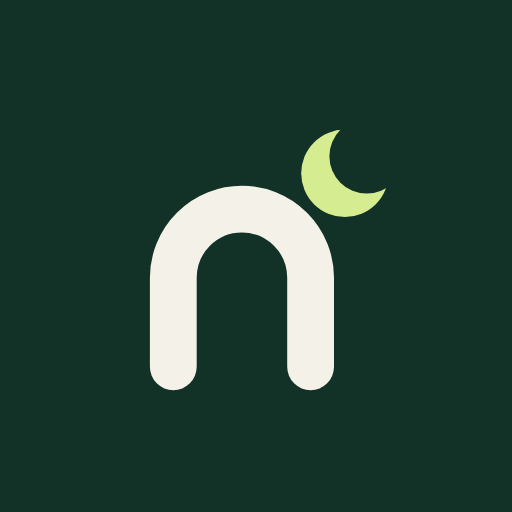
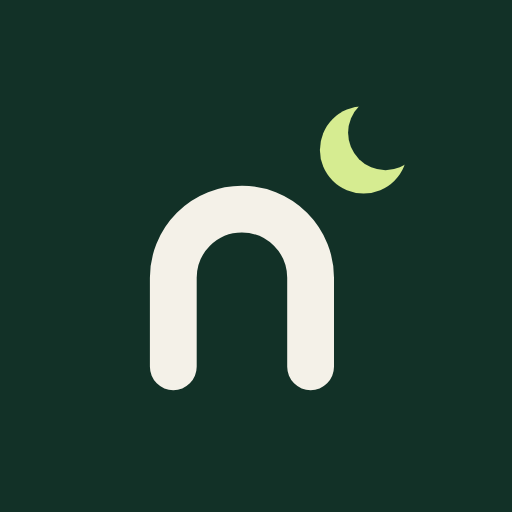
Add a wordmark drawn from the emblem's n and move the moon up and right
- nook wordmark: monoline letters built on the emblem's arch, same stroke
  ratio and round ends; used centred in the header as inline SVG
- Emblem moon sits further to the top right (still inside the app icon safe zone)
- Regenerate favicon, app icons and the social preview with the new lockup

Claude-Session: https://claude.ai/code/session_012SNdv8zjCGuiwjbpTpaA9V

Changed region(s): [[0.5625, 0.1875, 0.7812, 0.4375]]

diff --git a/index.html b/index.html
@@ -24,17 +24,17 @@
     <meta http-equiv="Content-Security-Policy" content="default-src 'self'; base-uri 'self'; object-src 'none'; form-action 'none'; script-src 'self'; style-src 'self' 'unsafe-inline' https://fonts.googleapis.com; font-src 'self' https://fonts.gstatic.com data:; img-src 'self' data: blob: https://tile.openstreetmap.org https://images.unsplash.com https://firebasestorage.googleapis.com https://mapcentia-www.s3-eu-west-1.amazonaws.com https://commons.wikimedia.org https://upload.wikimedia.org https://thumb.wikimedia.org; connect-src 'self' https://commons.wikimedia.org https://api.open-meteo.com https://nominatim.openstreetmap.org; worker-src 'self'; manifest-src 'self'; frame-src 'none'; upgrade-insecure-requests" />
     <meta name="apple-mobile-web-app-capable" content="yes" />
     <meta name="apple-mobile-web-app-status-bar-style" content="black" />
-    <link rel="manifest" href="manifest.webmanifest?v=20261123-1" />
-    <link rel="apple-touch-icon" href="apple-touch-icon.png?v=20261123-1" />
-    <link rel="icon" href="favicon.ico?v=20261123-1" sizes="any" />
-    <link rel="icon" href="favicon.svg?v=20261123-1" type="image/svg+xml" />
+    <link rel="manifest" href="manifest.webmanifest?v=20261123-2" />
+    <link rel="apple-touch-icon" href="apple-touch-icon.png?v=20261123-2" />
+    <link rel="icon" href="favicon.ico?v=20261123-2" sizes="any" />
+    <link rel="icon" href="favicon.svg?v=20261123-2" type="image/svg+xml" />
     <link rel="preconnect" href="https://fonts.googleapis.com" />
     <link rel="preconnect" href="https://fonts.gstatic.com" crossorigin />
     <link href="https://fonts.googleapis.com/css2?family=DM+Sans:opsz,wght@9..40,400;9..40,600;9..40,700&amp;display=swap" rel="stylesheet" />
     <link rel="stylesheet" href="vendor/leaflet-1.9.4/leaflet.css" integrity="sha256-p4NxAoJBhIIN+hmNHrzRCf9tD/miZyoHS5obTRR9BMY=" crossorigin="" />
     <link rel="stylesheet" href="vendor/leaflet.markercluster-1.5.3/MarkerCluster.css" integrity="sha256-YU3qCpj/P06tdPBJGPax0bm6Q1wltfwjsho5TR4+TYc=" crossorigin="" />
     <link rel="stylesheet" href="vendor/leaflet.markercluster-1.5.3/MarkerCluster.Default.css" integrity="sha256-YSWCMtmNZNwqex4CEw1nQhvFub2lmU7vcCKP+XVwwXA=" crossorigin="" />
-    <link rel="stylesheet" href="styles.css?v=20261123-4" />
+    <link rel="stylesheet" href="styles.css?v=20261123-5" />
     <script src="i18n.js?v=20261123-2"></script>
     <script src="site.js?v=20261122-1" defer></script>
   </head>
@@ -42,9 +42,9 @@
     <a class="skip-link" href="#main-content" data-i18n-text="[&quot;To content&quot;]">To content</a>
     <header class="site-header">
       <a class="brand" href="index.html" aria-label="Nook map" data-i18n-attrs="{&quot;aria-label&quot;: &quot;Nook map&quot;}">
-        <img class="brand-mark" src="favicon.svg?v=20261123-1" alt="" width="28" height="28" aria-hidden="true" />
+        <img class="brand-mark" src="favicon.svg?v=20261123-2" alt="" width="28" height="28" aria-hidden="true" />
       </a>
-      <span class="brand-name" aria-hidden="true">Nook</span>
+      <span class="brand-name" aria-hidden="true"><svg viewBox="-2 -60 436 163" fill="none" stroke="currentColor" stroke-width="23" stroke-linecap="round" stroke-linejoin="round" focusable="false"><path d="M11.5 88.5V45a33.5 33.5 0 0 1 67 0v43.5"/><circle cx="159" cy="50" r="39.5"/><circle cx="279" cy="50" r="39.5"/><path d="M359.5 -46.5v135M418 11.5 359.5 62M386 38l34 50.5"/></svg></span>
       <div class="site-menu" id="site-menu">
         <nav class="site-nav" aria-label="Main navigation" data-i18n-attrs="{&quot;aria-label&quot;: &quot;Main navigation&quot;}">
         <a href="index.html" aria-current="page" data-i18n-text="[&quot;Map&quot;]">Map</a>

diff --git a/routebronnen.html b/routebronnen.html
@@ -20,14 +20,14 @@
     <meta http-equiv="Content-Security-Policy" content="default-src 'self'; base-uri 'self'; object-src 'none'; form-action 'none'; script-src 'self'; style-src 'self' 'unsafe-inline' https://fonts.googleapis.com; font-src 'self' https://fonts.gstatic.com data:; img-src 'self' data: blob: https://tile.openstreetmap.org https://images.unsplash.com https://firebasestorage.googleapis.com https://mapcentia-www.s3-eu-west-1.amazonaws.com https://commons.wikimedia.org https://upload.wikimedia.org https://thumb.wikimedia.org; connect-src 'self' https://commons.wikimedia.org https://api.open-meteo.com https://nominatim.openstreetmap.org; worker-src 'self'; manifest-src 'self'; frame-src 'none'; upgrade-insecure-requests" />
     <meta name="apple-mobile-web-app-capable" content="yes" />
     <meta name="apple-mobile-web-app-status-bar-style" content="black" />
-    <link rel="manifest" href="manifest.webmanifest?v=20261123-1" />
-    <link rel="apple-touch-icon" href="apple-touch-icon.png?v=20261123-1" />
-    <link rel="icon" href="favicon.ico?v=20261123-1" sizes="any" />
-    <link rel="icon" href="favicon.svg?v=20261123-1" type="image/svg+xml" />
+    <link rel="manifest" href="manifest.webmanifest?v=20261123-2" />
+    <link rel="apple-touch-icon" href="apple-touch-icon.png?v=20261123-2" />
+    <link rel="icon" href="favicon.ico?v=20261123-2" sizes="any" />
+    <link rel="icon" href="favicon.svg?v=20261123-2" type="image/svg+xml" />
     <link rel="preconnect" href="https://fonts.googleapis.com" />
     <link rel="preconnect" href="https://fonts.gstatic.com" crossorigin />
     <link href="https://fonts.googleapis.com/css2?family=DM+Sans:opsz,wght@9..40,400;9..40,600;9..40,700&amp;display=swap" rel="stylesheet" />
-    <link rel="stylesheet" href="styles.css?v=20261123-4" />
+    <link rel="stylesheet" href="styles.css?v=20261123-5" />
     <script src="i18n.js?v=20261123-2"></script>
     <script src="site.js?v=20261122-1" defer></script>
     <meta http-equiv="refresh" content="0; url=regels.html#planners" />
@@ -36,9 +36,9 @@
     <a class="skip-link" href="#main-content" data-i18n-text="[&quot;To content&quot;]">To content</a>
     <header class="site-header">
       <a class="brand" href="index.html" aria-label="Nook map" data-i18n-attrs="{&quot;aria-label&quot;: &quot;Nook map&quot;}">
-        <img class="brand-mark" src="favicon.svg?v=20261123-1" alt="" width="28" height="28" aria-hidden="true" />
+        <img class="brand-mark" src="favicon.svg?v=20261123-2" alt="" width="28" height="28" aria-hidden="true" />
       </a>
-      <span class="brand-name" aria-hidden="true">Nook</span>
+      <span class="brand-name" aria-hidden="true"><svg viewBox="-2 -60 436 163" fill="none" stroke="currentColor" stroke-width="23" stroke-linecap="round" stroke-linejoin="round" focusable="false"><path d="M11.5 88.5V45a33.5 33.5 0 0 1 67 0v43.5"/><circle cx="159" cy="50" r="39.5"/><circle cx="279" cy="50" r="39.5"/><path d="M359.5 -46.5v135M418 11.5 359.5 62M386 38l34 50.5"/></svg></span>
       <div class="site-menu" id="site-menu">
         <nav class="site-nav" aria-label="Main navigation" data-i18n-attrs="{&quot;aria-label&quot;: &quot;Main navigation&quot;}">
         <a href="index.html" data-i18n-text="[&quot;Map&quot;]">Map</a>

diff --git a/netwerken.html b/netwerken.html
@@ -9,14 +9,14 @@
     <meta http-equiv="Content-Security-Policy" content="default-src 'self'; base-uri 'self'; object-src 'none'; form-action 'none'; script-src 'self'; style-src 'self' 'unsafe-inline' https://fonts.googleapis.com; font-src 'self' https://fonts.gstatic.com data:; img-src 'self' data: blob: https://tile.openstreetmap.org https://images.unsplash.com https://firebasestorage.googleapis.com https://mapcentia-www.s3-eu-west-1.amazonaws.com https://commons.wikimedia.org https://upload.wikimedia.org https://thumb.wikimedia.org; connect-src 'self' https://commons.wikimedia.org https://api.open-meteo.com https://nominatim.openstreetmap.org; worker-src 'self'; manifest-src 'self'; frame-src 'none'; upgrade-insecure-requests" />
     <meta name="apple-mobile-web-app-capable" content="yes" />
     <meta name="apple-mobile-web-app-status-bar-style" content="black" />
-    <link rel="manifest" href="manifest.webmanifest?v=20261123-1" />
-    <link rel="apple-touch-icon" href="apple-touch-icon.png?v=20261123-1" />
-    <link rel="icon" href="favicon.ico?v=20261123-1" sizes="any" />
-    <link rel="icon" href="favicon.svg?v=20261123-1" type="image/svg+xml" />
+    <link rel="manifest" href="manifest.webmanifest?v=20261123-2" />
+    <link rel="apple-touch-icon" href="apple-touch-icon.png?v=20261123-2" />
+    <link rel="icon" href="favicon.ico?v=20261123-2" sizes="any" />
+    <link rel="icon" href="favicon.svg?v=20261123-2" type="image/svg+xml" />
     <link rel="preconnect" href="https://fonts.googleapis.com" />
     <link rel="preconnect" href="https://fonts.gstatic.com" crossorigin />
     <link href="https://fonts.googleapis.com/css2?family=DM+Sans:opsz,wght@9..40,400;9..40,600;9..40,700&amp;display=swap" rel="stylesheet" />
-    <link rel="stylesheet" href="styles.css?v=20261123-4" />
+    <link rel="stylesheet" href="styles.css?v=20261123-5" />
     <script src="i18n.js?v=20261123-2"></script>
     <script src="site.js?v=20261122-1" defer></script>
     <meta http-equiv="refresh" content="0; url=over.html#bronnen" />
@@ -25,9 +25,9 @@
     <a class="skip-link" href="#main-content" data-i18n-text="[&quot;To content&quot;]">To content</a>
     <header class="site-header">
       <a class="brand" href="index.html" aria-label="Nook map" data-i18n-attrs="{&quot;aria-label&quot;: &quot;Nook map&quot;}">
-        <img class="brand-mark" src="favicon.svg?v=20261123-1" alt="" width="28" height="28" aria-hidden="true" />
+        <img class="brand-mark" src="favicon.svg?v=20261123-2" alt="" width="28" height="28" aria-hidden="true" />
       </a>
-      <span class="brand-name" aria-hidden="true">Nook</span>
+      <span class="brand-name" aria-hidden="true"><svg viewBox="-2 -60 436 163" fill="none" stroke="currentColor" stroke-width="23" stroke-linecap="round" stroke-linejoin="round" focusable="false"><path d="M11.5 88.5V45a33.5 33.5 0 0 1 67 0v43.5"/><circle cx="159" cy="50" r="39.5"/><circle cx="279" cy="50" r="39.5"/><path d="M359.5 -46.5v135M418 11.5 359.5 62M386 38l34 50.5"/></svg></span>
       <div class="site-menu" id="site-menu">
         <nav class="site-nav" aria-label="Main navigation" data-i18n-attrs="{&quot;aria-label&quot;: &quot;Main navigation&quot;}">
         <a href="index.html" data-i18n-text="[&quot;Map&quot;]">Map</a>

diff --git a/over.html b/over.html
@@ -23,14 +23,14 @@
     <meta http-equiv="Content-Security-Policy" content="default-src 'self'; base-uri 'self'; object-src 'none'; form-action 'none'; script-src 'self'; style-src 'self' 'unsafe-inline' https://fonts.googleapis.com; font-src 'self' https://fonts.gstatic.com data:; img-src 'self' data: blob: https://tile.openstreetmap.org https://images.unsplash.com https://firebasestorage.googleapis.com https://mapcentia-www.s3-eu-west-1.amazonaws.com https://commons.wikimedia.org https://upload.wikimedia.org https://thumb.wikimedia.org; connect-src 'self' https://commons.wikimedia.org https://api.open-meteo.com https://nominatim.openstreetmap.org; worker-src 'self'; manifest-src 'self'; frame-src 'none'; upgrade-insecure-requests" />
     <meta name="apple-mobile-web-app-capable" content="yes" />
     <meta name="apple-mobile-web-app-status-bar-style" content="black" />
-    <link rel="manifest" href="manifest.webmanifest?v=20261123-1" />
-    <link rel="apple-touch-icon" href="apple-touch-icon.png?v=20261123-1" />
-    <link rel="icon" href="favicon.ico?v=20261123-1" sizes="any" />
-    <link rel="icon" href="favicon.svg?v=20261123-1" type="image/svg+xml" />
+    <link rel="manifest" href="manifest.webmanifest?v=20261123-2" />
+    <link rel="apple-touch-icon" href="apple-touch-icon.png?v=20261123-2" />
+    <link rel="icon" href="favicon.ico?v=20261123-2" sizes="any" />
+    <link rel="icon" href="favicon.svg?v=20261123-2" type="image/svg+xml" />
     <link rel="preconnect" href="https://fonts.googleapis.com" />
     <link rel="preconnect" href="https://fonts.gstatic.com" crossorigin />
     <link href="https://fonts.googleapis.com/css2?family=DM+Sans:opsz,wght@9..40,400;9..40,600;9..40,700&amp;display=swap" rel="stylesheet" />
-    <link rel="stylesheet" href="styles.css?v=20261123-4" />
+    <link rel="stylesheet" href="styles.css?v=20261123-5" />
     <script src="i18n.js?v=20261123-2"></script>
     <script src="site.js?v=20261122-1" defer></script>
   </head>
@@ -38,9 +38,9 @@
     <a class="skip-link" href="#main-content" data-i18n-text="[&quot;To content&quot;]">To content</a>
     <header class="site-header">
       <a class="brand" href="index.html" aria-label="Nook map" data-i18n-attrs="{&quot;aria-label&quot;: &quot;Nook map&quot;}">
-        <img class="brand-mark" src="favicon.svg?v=20261123-1" alt="" width="28" height="28" aria-hidden="true" />
+        <img class="brand-mark" src="favicon.svg?v=20261123-2" alt="" width="28" height="28" aria-hidden="true" />
       </a>
-      <span class="brand-name" aria-hidden="true">Nook</span>
+      <span class="brand-name" aria-hidden="true"><svg viewBox="-2 -60 436 163" fill="none" stroke="currentColor" stroke-width="23" stroke-linecap="round" stroke-linejoin="round" focusable="false"><path d="M11.5 88.5V45a33.5 33.5 0 0 1 67 0v43.5"/><circle cx="159" cy="50" r="39.5"/><circle cx="279" cy="50" r="39.5"/><path d="M359.5 -46.5v135M418 11.5 359.5 62M386 38l34 50.5"/></svg></span>
       <div class="site-menu" id="site-menu">
         <nav class="site-nav" aria-label="Main navigation" data-i18n-attrs="{&quot;aria-label&quot;: &quot;Main navigation&quot;}">
         <a href="index.html" data-i18n-text="[&quot;Map&quot;]">Map</a>

diff --git a/regels.html b/regels.html
@@ -23,14 +23,14 @@
     <meta http-equiv="Content-Security-Policy" content="default-src 'self'; base-uri 'self'; object-src 'none'; form-action 'none'; script-src 'self'; style-src 'self' 'unsafe-inline' https://fonts.googleapis.com; font-src 'self' https://fonts.gstatic.com data:; img-src 'self' data: blob: https://tile.openstreetmap.org https://images.unsplash.com https://firebasestorage.googleapis.com https://mapcentia-www.s3-eu-west-1.amazonaws.com https://commons.wikimedia.org https://upload.wikimedia.org https://thumb.wikimedia.org; connect-src 'self' https://commons.wikimedia.org https://api.open-meteo.com https://nominatim.openstreetmap.org; worker-src 'self'; manifest-src 'self'; frame-src 'none'; upgrade-insecure-requests" />
     <meta name="apple-mobile-web-app-capable" content="yes" />
     <meta name="apple-mobile-web-app-status-bar-style" content="black" />
-    <link rel="manifest" href="manifest.webmanifest?v=20261123-1" />
-    <link rel="apple-touch-icon" href="apple-touch-icon.png?v=20261123-1" />
-    <link rel="icon" href="favicon.ico?v=20261123-1" sizes="any" />
-    <link rel="icon" href="favicon.svg?v=20261123-1" type="image/svg+xml" />
+    <link rel="manifest" href="manifest.webmanifest?v=20261123-2" />
+    <link rel="apple-touch-icon" href="apple-touch-icon.png?v=20261123-2" />
+    <link rel="icon" href="favicon.ico?v=20261123-2" sizes="any" />
+    <link rel="icon" href="favicon.svg?v=20261123-2" type="image/svg+xml" />
     <link rel="preconnect" href="https://fonts.googleapis.com" />
     <link rel="preconnect" href="https://fonts.gstatic.com" crossorigin />
     <link href="https://fonts.googleapis.com/css2?family=DM+Sans:opsz,wght@9..40,400;9..40,600;9..40,700&amp;display=swap" rel="stylesheet" />
-    <link rel="stylesheet" href="styles.css?v=20261123-4" />
+    <link rel="stylesheet" href="styles.css?v=20261123-5" />
     <script src="i18n.js?v=20261123-2"></script>
     <script src="site.js?v=20261122-1" defer></script>
   </head>
@@ -38,9 +38,9 @@
     <a class="skip-link" href="#main-content" data-i18n-text="[&quot;To content&quot;]">To content</a>
     <header class="site-header">
       <a class="brand" href="index.html" aria-label="Nook map" data-i18n-attrs="{&quot;aria-label&quot;: &quot;Nook map&quot;}">
-        <img class="brand-mark" src="favicon.svg?v=20261123-1" alt="" width="28" height="28" aria-hidden="true" />
+        <img class="brand-mark" src="favicon.svg?v=20261123-2" alt="" width="28" height="28" aria-hidden="true" />
       </a>
-      <span class="brand-name" aria-hidden="true">Nook</span>
+      <span class="brand-name" aria-hidden="true"><svg viewBox="-2 -60 436 163" fill="none" stroke="currentColor" stroke-width="23" stroke-linecap="round" stroke-linejoin="round" focusable="false"><path d="M11.5 88.5V45a33.5 33.5 0 0 1 67 0v43.5"/><circle cx="159" cy="50" r="39.5"/><circle cx="279" cy="50" r="39.5"/><path d="M359.5 -46.5v135M418 11.5 359.5 62M386 38l34 50.5"/></svg></span>
       <div class="site-menu" id="site-menu">
         <nav class="site-nav" aria-label="Main navigation" data-i18n-attrs="{&quot;aria-label&quot;: &quot;Main navigation&quot;}">
         <a href="index.html" data-i18n-text="[&quot;Map&quot;]">Map</a>

diff --git a/404.html b/404.html
@@ -13,14 +13,14 @@
     />
     <meta name="apple-mobile-web-app-capable" content="yes" />
     <meta name="apple-mobile-web-app-status-bar-style" content="black" />
-    <link rel="manifest" href="manifest.webmanifest?v=20261123-1" />
-    <link rel="apple-touch-icon" href="apple-touch-icon.png?v=20261123-1" />
-    <link rel="icon" href="favicon.ico?v=20261123-1" sizes="any" />
-    <link rel="icon" href="favicon.svg?v=20261123-1" type="image/svg+xml" />
+    <link rel="manifest" href="manifest.webmanifest?v=20261123-2" />
+    <link rel="apple-touch-icon" href="apple-touch-icon.png?v=20261123-2" />
+    <link rel="icon" href="favicon.ico?v=20261123-2" sizes="any" />
+    <link rel="icon" href="favicon.svg?v=20261123-2" type="image/svg+xml" />
     <link rel="preconnect" href="https://fonts.googleapis.com" />
     <link rel="preconnect" href="https://fonts.gstatic.com" crossorigin />
     <link href="https://fonts.googleapis.com/css2?family=DM+Sans:opsz,wght@9..40,400;9..40,600;9..40,700&amp;display=swap" rel="stylesheet" />
-    <link rel="stylesheet" href="styles.css?v=20261123-4" />
+    <link rel="stylesheet" href="styles.css?v=20261123-5" />
     <script src="i18n.js?v=20261123-2"></script>
   </head>
   <body>

diff --git a/service-worker.js b/service-worker.js
@@ -1,4 +1,4 @@
-const SHELL_CACHE = "nook-shell-20261123-4";
+const SHELL_CACHE = "nook-shell-20261123-5";
 const RUNTIME_CACHE = "nook-runtime-20261024-1";
 const TILE_CACHE = "nook-tiles-v1";
 const MAX_TILES = 256;
@@ -12,7 +12,7 @@ const APP_SHELL = [
   "./i18n.js?v=20261123-2",
   "./site.js?v=20261122-1",
   "./bootstrap.js?v=20261122-1",
-  "./styles.css?v=20261123-4",
+  "./styles.css?v=20261123-5",
   "./app.js?v=20261123-2",
   "./countries.js?v=20261122-1",
   "./country-rules.js?v=20261123-2",
@@ -26,12 +26,12 @@ const APP_SHELL = [
   "./vendor/leaflet.markercluster-1.5.3/MarkerCluster.css",
   "./vendor/leaflet.markercluster-1.5.3/MarkerCluster.Default.css",
   "./public-data.js?v=20261024-1",
-  "./favicon.ico?v=20261123-1",
-  "./favicon.svg?v=20261123-1",
-  "./icon-192.png?v=20261123-1",
-  "./icon-512.png?v=20261123-1",
-  "./apple-touch-icon.png?v=20261123-1",
-  "./manifest.webmanifest?v=20261123-1",
+  "./favicon.ico?v=20261123-2",
+  "./favicon.svg?v=20261123-2",
+  "./icon-192.png?v=20261123-2",
+  "./icon-512.png?v=20261123-2",
+  "./apple-touch-icon.png?v=20261123-2",
+  "./manifest.webmanifest?v=20261123-2",
   "./pwa.js?v=20261018-1",
   "./feedback.js?v=20261122-1"
 ];

diff --git a/styles.css b/styles.css
@@ -300,15 +300,15 @@ img { max-width: 100%; }
   text-decoration: none;
 }
 .brand-mark { display: block; width: 32px; height: 32px; border-radius: 8px; }
+/* The wordmark is drawn from the same arch as the n in the emblem. */
 .brand-name {
   grid-column: 2;
   grid-row: 1;
   justify-self: center;
   color: var(--ink);
-  font-size: var(--fs-lead);
-  font-weight: 700;
-  letter-spacing: -0.01em;
+  line-height: 0;
 }
+.brand-name svg { display: block; width: auto; height: 22px; }
 
 .site-menu { display: contents; }
 
